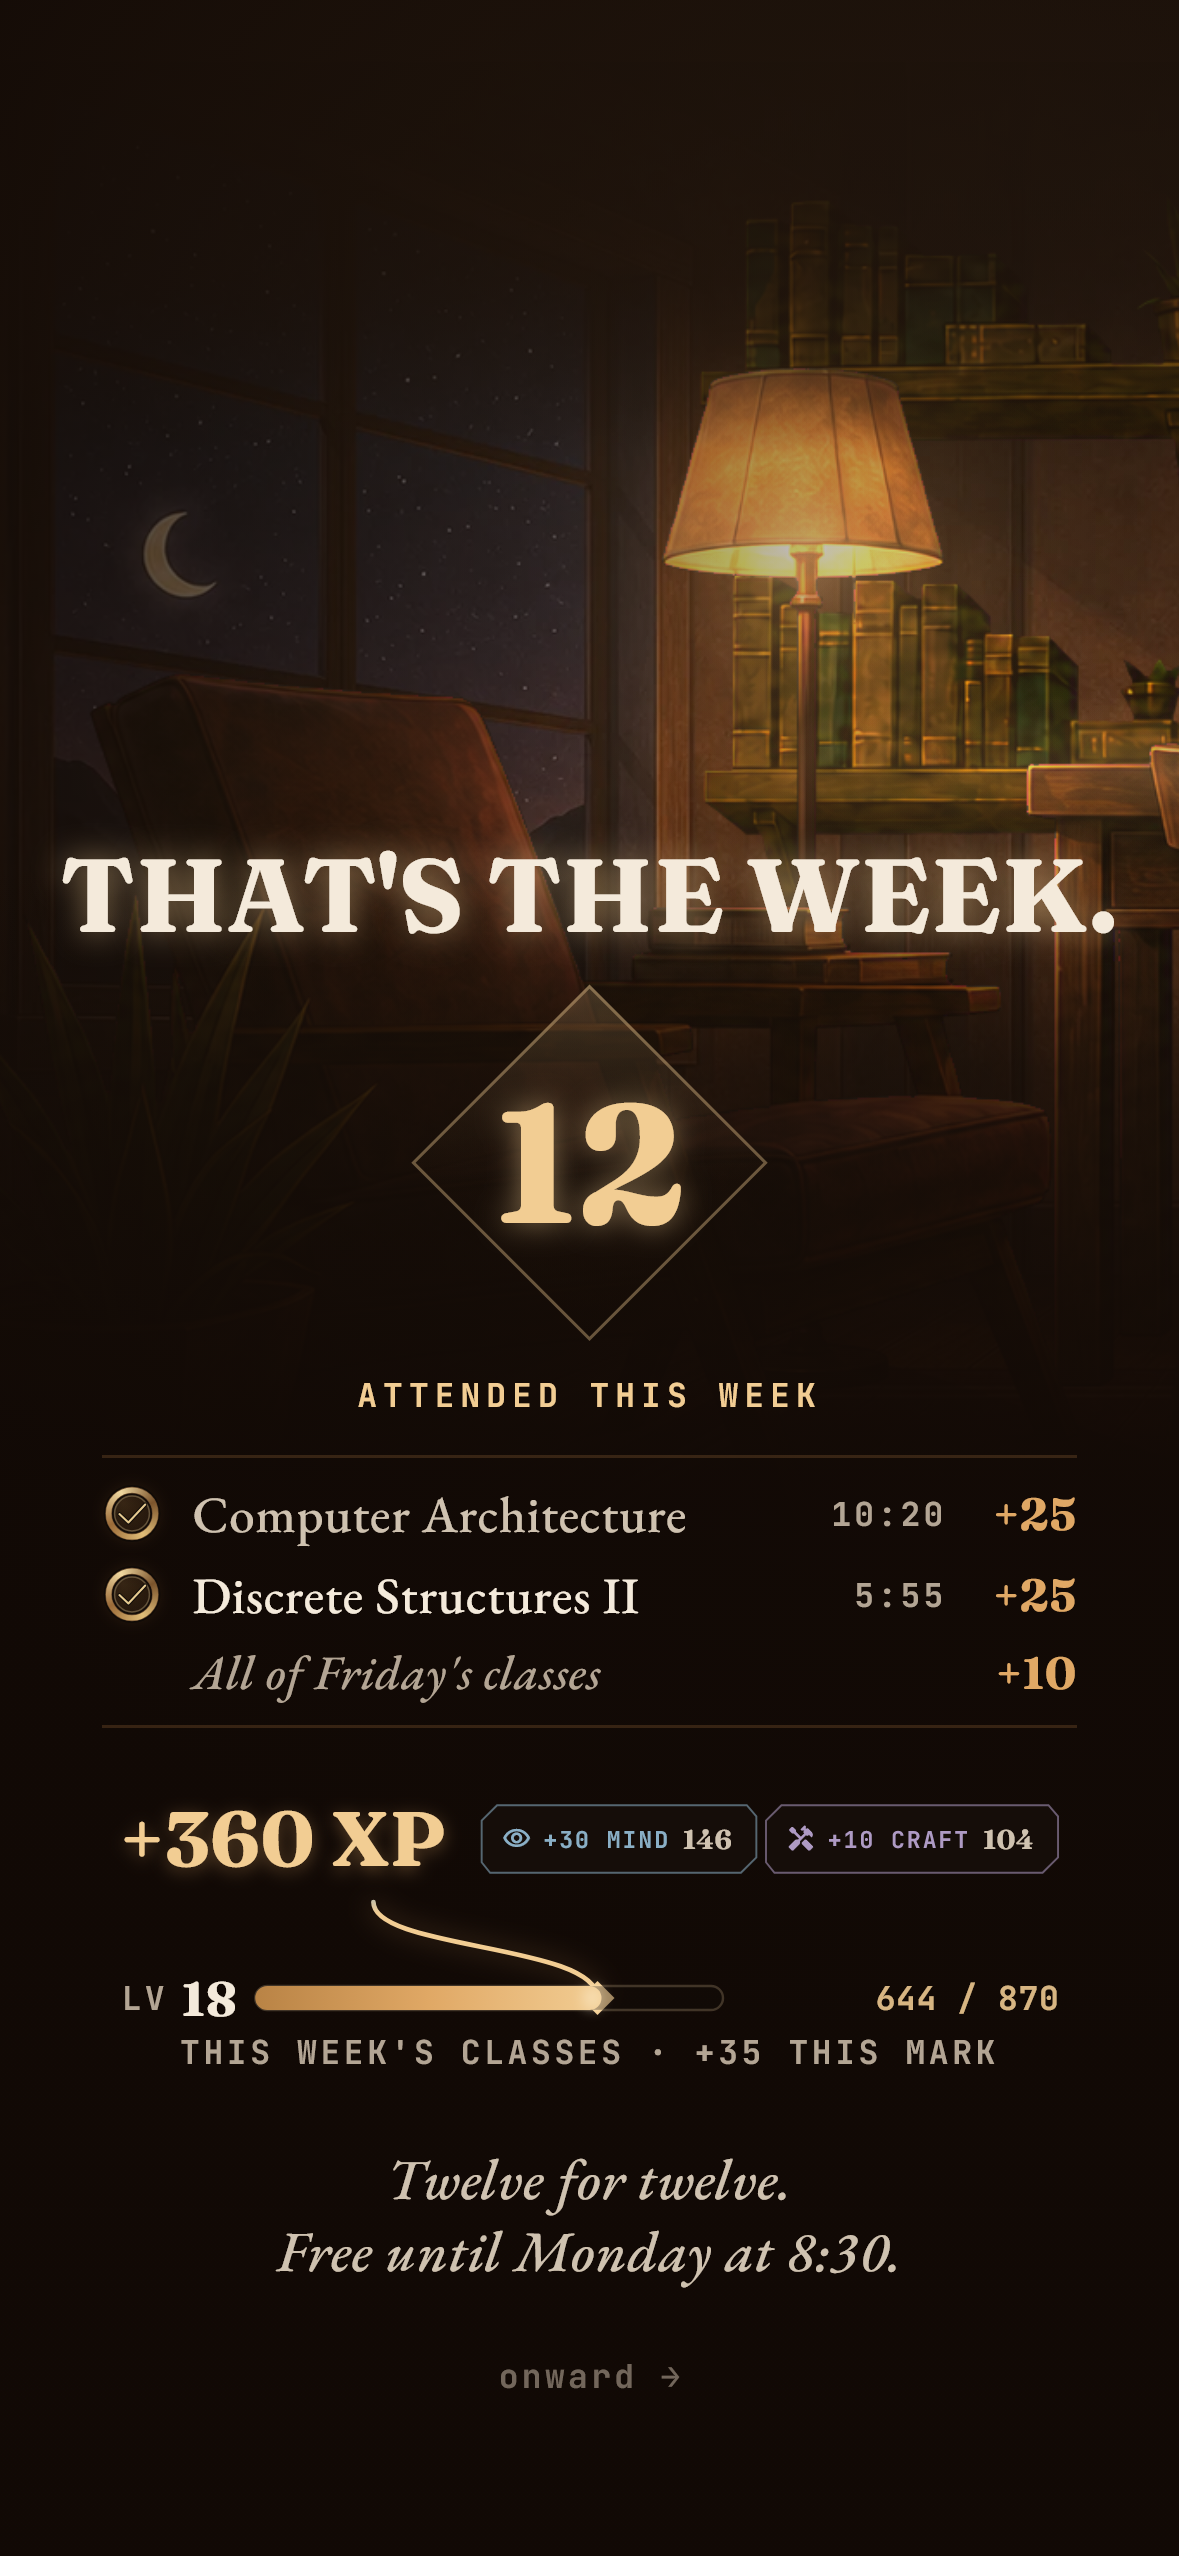
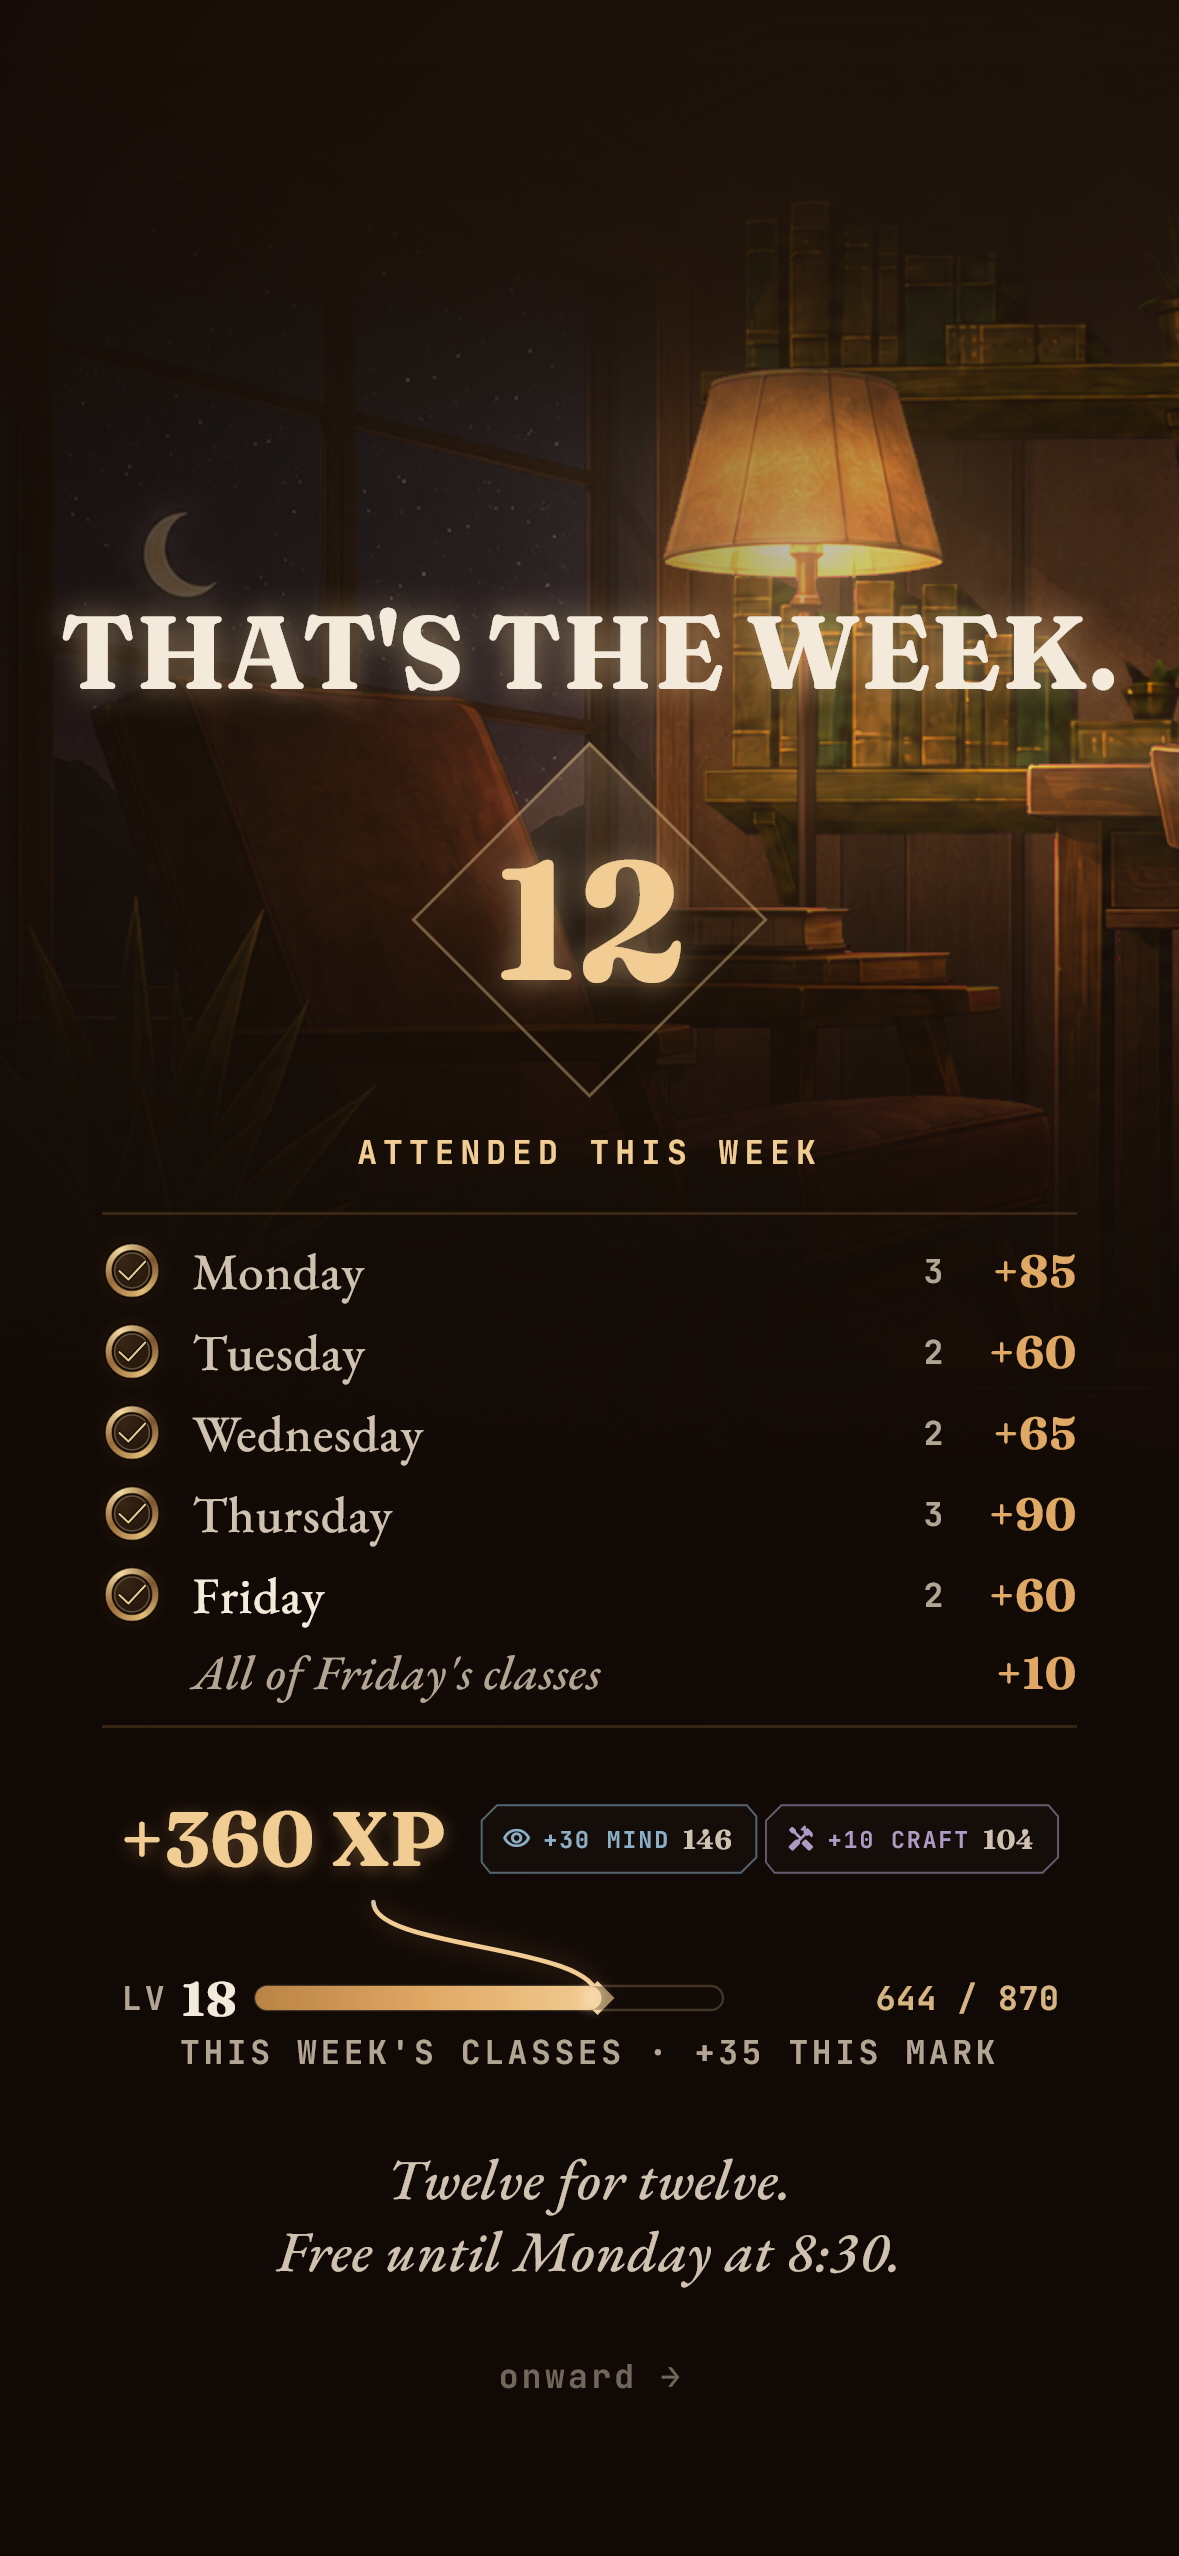
Week tier lists the week by day; streak line reads the keep that lit
THAT'S THE WEEK. now shows one row per class day attended (day name, count,
that day's class XP) so the list matches the diamond. The streak line read
the last credit of a shortcut, which lights nothing and carries 0, giving
'0 DAYS RUNNING'; it now reads the credit that lit and never shows under 1.

diff --git a/lib/widgets/class_day/class_day_model.dart b/lib/widgets/class_day/class_day_model.dart
@@ -583,7 +583,9 @@ final class ClassCelebrationPlan {
   /// "10:20 TO 11:40 · HLL 114", for a single mark.
   final String? detail;
 
-  /// Today's kept classes (day and week tiers, or a shortcut).
+  /// Today's kept classes (day tier, or a shortcut). On the week tier, one
+  /// row per class day attended: [ClassCelebrationRow.title] is the day name
+  /// and [ClassCelebrationRow.time] the number attended.
   final List<ClassCelebrationRow> rows;
 
   /// "All of Tuesday's classes" with [bonusXp], only when this gesture paid
@@ -719,9 +721,32 @@ ClassCelebrationPlan planClassCelebration({
   // Rows: today's kept classes in timetable order.
   final markedKeys = {for (final entry in marked) entry.facts.identity};
   final rows = <ClassCelebrationRow>[];
-  if (tier == ClassCelebrationTier.dayDone ||
-      tier == ClassCelebrationTier.weekDone ||
-      several) {
+  if (tier == ClassCelebrationTier.weekDone) {
+    // The week speaks in days: one row per class day he went to, with how
+    // many he attended and that day's class XP. A day he did not attend gets
+    // no row (no zero, no denominator).
+    for (final other in week) {
+      final kept = state.classesKeptOn(other.dayKey);
+      if (kept.isEmpty) continue;
+      final counts = <Stat, int>{};
+      for (final item in kept) {
+        counts[item.stat] = (counts[item.stat] ?? 0) + 1;
+      }
+      var lead = kept.first.stat;
+      for (final entry in counts.entries) {
+        if (entry.value > counts[lead]!) lead = entry.key;
+      }
+      rows.add(
+        ClassCelebrationRow(
+          title: weekdayOf(other.date),
+          time: '${kept.length}',
+          xp: state.classXpForDay(other.dayKey),
+          stat: lead,
+          marked: other.date == day.date,
+        ),
+      );
+    }
+  } else if (tier == ClassCelebrationTier.dayDone || several) {
     for (final entry in day.classes) {
       final kept = state.keptClassFor(entry.facts);
       if (kept == null) continue;
@@ -883,10 +908,15 @@ ClassCelebrationPlan planClassCelebration({
     }
   }
 
-  final streak = hero.streak;
+  // The keep that lit the day carries the count. A later keep of the same
+  // day (the shortcut's last credit) lights nothing and reads 0, so the
+  // streak is read from the credit that lit, never from the last one. A
+  // count under one is never shown.
+  final lit = credits.where((credit) => credit.streak.lit);
+  final streakDays = lit.isEmpty ? 0 : lit.last.streak.streakDays;
   final streakLine =
-      ClassDayRules.current.classDayLightsStreak && credits.first.streak.lit
-      ? '${streak.streakDays} ${streak.streakDays == 1 ? 'DAY' : 'DAYS'} '
+      ClassDayRules.current.classDayLightsStreak && streakDays >= 1
+      ? '$streakDays ${streakDays == 1 ? 'DAY' : 'DAYS'} '
             'RUNNING · TODAY COUNTS'
       : null;
 

diff --git a/test/class_day_model_test.dart b/test/class_day_model_test.dart
@@ -370,6 +370,24 @@ void main() {
       expect(week.title, isNull);
       expect(week.detail, isNull);
       expect(week.numeralLabel, isNot(contains(' OF ')));
+      // The list matches the diamond: one row per class day attended, with
+      // how many, and no row for a count of nothing.
+      expect(
+        [for (final row in week.rows) (row.title, row.time)],
+        [
+          ('Monday', '3'),
+          ('Tuesday', '1'),
+          ('Wednesday', '2'),
+          ('Thursday', '3'),
+          ('Friday', '2'),
+        ],
+      );
+      expect(
+        week.rows.fold(0, (sum, row) => sum + int.parse(row.time)),
+        week.numeral,
+      );
+      expect(week.rows.where((row) => row.marked).single.title, 'Friday');
+      expect(week.rows.every((row) => row.xp > 0), isTrue);
     });
 
     test('the shortcut keeps several in one plan', () {
@@ -444,6 +462,16 @@ void main() {
         expect(second.streakLine, isNull, reason: 'the day was already lit');
         final wednesday = keepAndPlan(state, _ny(7, 11, 40), [0]);
         expect(wednesday.streakLine, '2 DAYS RUNNING · TODAY COUNTS');
+      });
+
+      test('the shortcut keeps three at once and still reads one day', () {
+        ClassDayRules.debugOverride = const ClassDayRules(
+          classDayLightsStreak: true,
+        );
+        final plan = keepAndPlan(GameState(), _ny(5, 19, 15), [0, 1, 2]);
+        expect(plan.tier, ClassCelebrationTier.dayDone);
+        expect(plan.streakLine, '1 DAY RUNNING · TODAY COUNTS');
+        expect(plan.streakLine, isNot(contains('0 DAYS')));
       });
 
       test('absent when the rule is off', () {

diff --git a/test/class_day_board_test.dart b/test/class_day_board_test.dart
@@ -536,6 +536,11 @@ void main() {
         'ATTENDED THIS WEEK',
       );
       expect(find.textContaining('ON RECORD'), findsNothing);
+      // The list matches the diamond: a row per class day of the week.
+      for (final name in ['Monday', 'Tuesday', 'Wednesday', 'Thursday']) {
+        expect(find.text(name), findsOneWidget);
+      }
+      expect(find.text('Friday'), findsOneWidget);
       expect(
         _closing(tester),
         'Twelve for twelve.\nFree until Monday at 8:30.',
